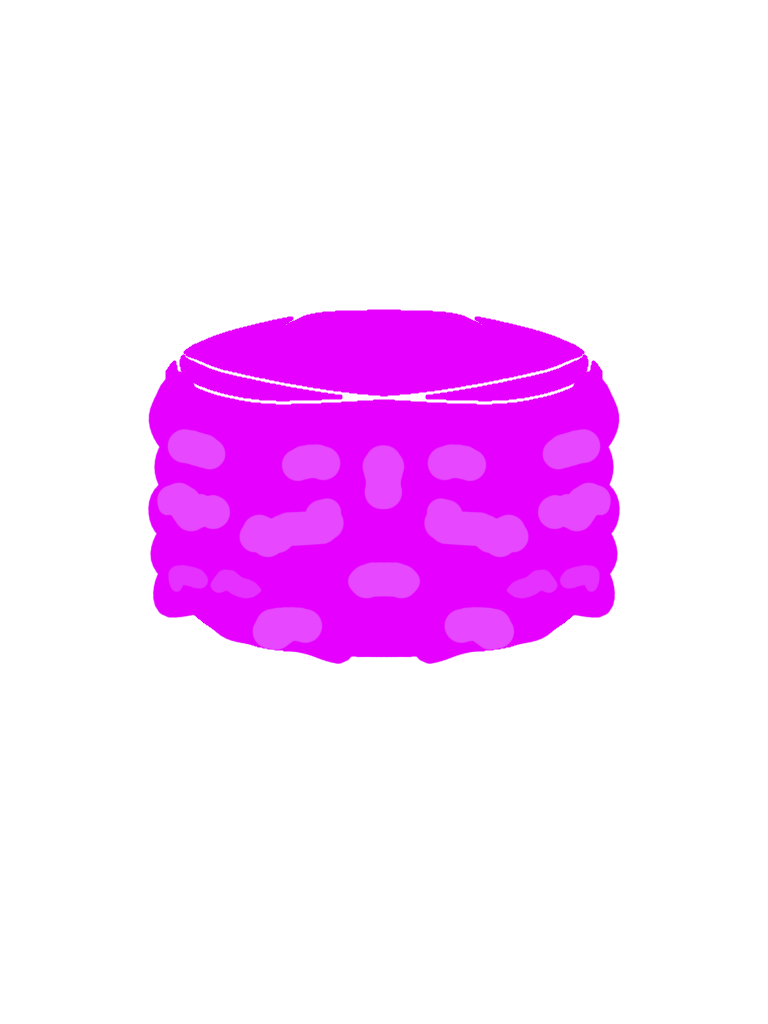
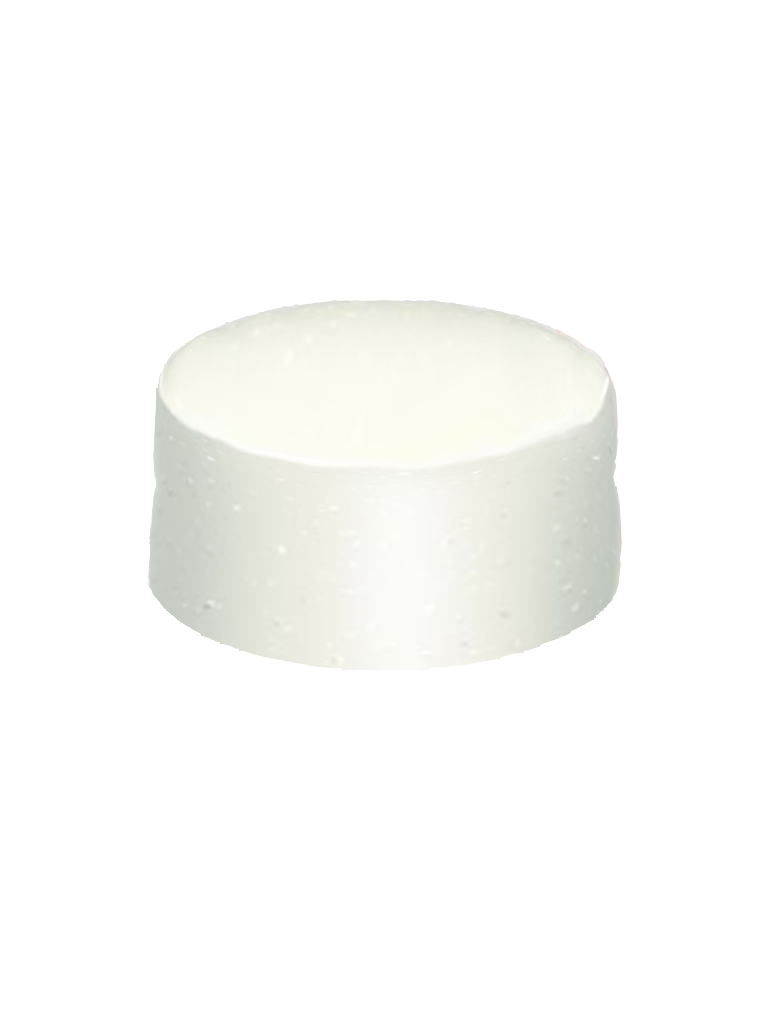
nemtom mit csinaltam a kepekkel but ok... amugy csak a marhginokat neztem meg ujra. kell eg jobb solution tbh

Changed region(s): [[0.1875, 0.2812, 0.8125, 0.6562]]

diff --git a/ALegjobbSutosJatekProjekt/BakingGame.xaml b/ALegjobbSutosJatekProjekt/BakingGame.xaml
@@ -27,7 +27,7 @@
                     <ColumnDefinition Width="1*"/>
                 </Grid.ColumnDefinitions>
 
-                <Grid Margin="0 -30pt 0 30pt" Grid.Column="1" x:Name="ingredientsection" Background="Transparent" >
+                <Grid Margin="0 -30pt 0 30pt" Grid.Column="1"  x:Name="ingredientsection" Background="Transparent" >
                     <Grid.RowDefinitions>
                         <RowDefinition Height="1*"></RowDefinition>
                         <RowDefinition Height="1*"></RowDefinition>
@@ -38,9 +38,9 @@
                             <ColumnDefinition Width="1*"></ColumnDefinition>
                             <ColumnDefinition Width="1*"></ColumnDefinition>
                         </Grid.ColumnDefinitions>
-                        <Image Grid.Column="0" x:Name="ingredient0" Tag="" Source="/assets/ingplaceholder.JPG" MouseLeftButtonDown="MouseDown"  />
-                        <Image Grid.Column="1" x:Name="ingredient2" Tag="" Source="/assets/ingplaceholder.JPG" MouseLeftButtonDown="MouseDown"/>
-                        <Image Grid.Column="2" x:Name="ingredient4" Tag="" Source="/assets/ingplaceholder.JPG" MouseLeftButtonDown="MouseDown"/>
+                        <Image Grid.Column="0" x:Name="ingredient0" Tag=""  MouseLeftButtonDown="MouseDown"  />
+                        <Image Grid.Column="1" x:Name="ingredient2" Tag=""  MouseLeftButtonDown="MouseDown"/>
+                        <Image Grid.Column="2" x:Name="ingredient4" Tag=""  MouseLeftButtonDown="MouseDown"/>
 
                     </Grid>
 
@@ -51,12 +51,12 @@
                             <ColumnDefinition Width="2*"></ColumnDefinition>
                             <ColumnDefinition Width="1*"></ColumnDefinition>
                         </Grid.ColumnDefinitions>
-                        <Image Grid.Column="1" x:Name="ingredient1"  Tag="" Source="/assets/ingplaceholder.JPG" MouseLeftButtonDown="MouseDown"/>
-                        <Image Grid.Column="2" x:Name="ingredient3" Tag="" Source="/assets/ingplaceholder.JPG" MouseLeftButtonDown="MouseDown"/>
+                        <Image Grid.Column="1" x:Name="ingredient1"  Tag="" MouseLeftButtonDown="MouseDown"/>
+                        <Image Grid.Column="2" x:Name="ingredient3" Tag=""  MouseLeftButtonDown="MouseDown"/>
 
                     </Grid>
                 </Grid>
-                <Image Source="/targetassets/1_0.png" Margin="10pt,-50pt,10pt,50pt" Grid.Column="2" x:Name="Usualtarget" Tag=""/>
+                <Image Source="/targetassets/1_0.png" Margin="-10pt -90pt -10pt 70pt" Grid.Column="2" x:Name="Usualtarget" Tag=""/>
 
             </Grid>
 

diff --git a/ALegjobbSutosJatekProjekt/BakingGame.xaml.cs b/ALegjobbSutosJatekProjekt/BakingGame.xaml.cs
@@ -685,8 +685,8 @@ namespace ALegjobbSutosJatekProjekt
 
             if (picoffset == 2) 
             {
-                ingredientsection.Margin = (Thickness)cucc.ConvertFromString("-40pt 40pt -40pt -80pt");
-                Usualtarget.Margin = (Thickness)cucc.ConvertFromString("10pt -50pt 10pt 50pt");
+                ingredientsection.Margin = (Thickness)cucc.ConvertFromString("-80pt 30pt -80pt -80pt");
+                Usualtarget.Margin = (Thickness)cucc.ConvertFromString("-10pt -90pt -10pt 70pt");
 
             }
             else if (section==11)
@@ -697,7 +697,7 @@ namespace ALegjobbSutosJatekProjekt
             else
             {
                 ingredientsection.Margin = (Thickness)cucc.ConvertFromString("0 -30pt 0 30pt");
-                Usualtarget.Margin = (Thickness)cucc.ConvertFromString("10pt -50pt 10pt 50pt");
+                Usualtarget.Margin = (Thickness)cucc.ConvertFromString("-10pt -90pt -10pt 70pt");
 
             }
 

diff --git a/ALegjobbSutosJatekProjekt/DecoratingGame.xaml.cs b/ALegjobbSutosJatekProjekt/DecoratingGame.xaml.cs
@@ -39,6 +39,7 @@ namespace ALegjobbSutosJatekProjekt
         // mar csak azt nem tudom hoyg szukseg van-e osztalyokra itt de ezt te dontsd el bye
         //    ILLETVE4!!!!!! perspektiva miatt topside-bol 2 AZAZ KETTO frame is van, watch out
         //    topside_11 es topside_12
+        // szerintem defautként legyen none (0) mert vegulis a nullarol van diszitve x
 
         private void Page_SizeChanged(object sender, SizeChangedEventArgs e) // ez kell mert igy reszponziv az asztal es a gombospanel
         {
